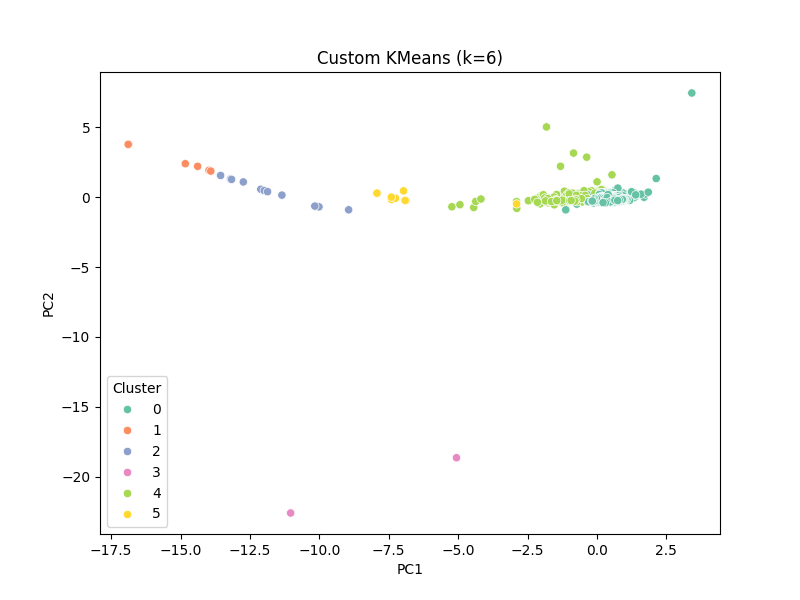
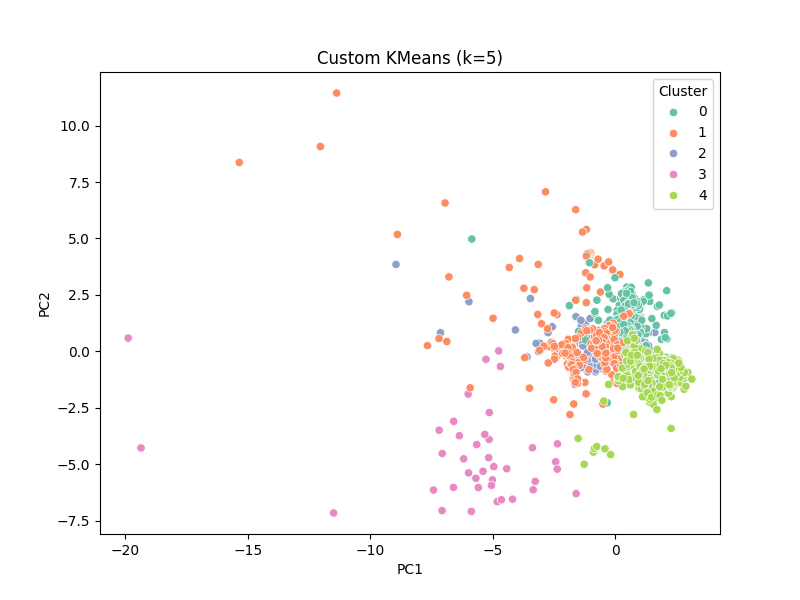
Flask sensor app

diff --git a/templates/report.html b/templates/report.html
@@ -146,21 +146,6 @@
         
     </div>
 
-    <!-- KNN Clustering Section -->
-    <div class="card mb-4">
-        <h3 class="section-title">KNN Clustering Results</h3>
-
-        <h4 class="mt-3">Cluster Summary</h4>
-        <div class="table-container">
-            {{ cluster_summary | safe }}
-        </div>
-
-        <h4 class="mt-4">Cluster Visualization</h4>
-        <div class="text-center">
-            <img src="{{ cluster_plot }}" alt="Cluster Plot" class="img-fluid">
-        </div>
-    </div>
-
     <!-- Improved KMeans Column Selection -->
     <div class="card mb-4">
         <h3 class="section-title">Select Columns for KMeans Clustering</h3>

diff --git a/app.py b/app.py
@@ -565,123 +565,6 @@ def upload_file():
             missing_time_html = missing_time_df.to_html(classes="table table-bordered", index=False)
 
 
-
-            # ========== CLUSTERING WITH AUTO k SELECTION (with sanity checks) ==========
-
-            # Drop rows with missing numeric values for clustering
-            cluster_df = df[numeric_cols].dropna()
-
-            sanity_issue = False
-            sanity_reasons = []
-
-            if len(cluster_df) < 10:
-                sanity_issue = True
-                sanity_reasons.append("Not enough data rows for clustering (minimum 10 required).")
-
-            # Remove constant columns
-            cluster_df = cluster_df.loc[:, cluster_df.nunique() > 1]
-            if cluster_df.shape[1] < 2:
-                sanity_issue = True
-                sanity_reasons.append("Too few variable columns for clustering after removing constants.")
-
-            # Standardize the features
-            if not sanity_issue:
-                scaler = StandardScaler()
-                X_scaled = scaler.fit_transform(cluster_df)
-
-                # Check for NaNs or Infs in scaled data
-                if not np.all(np.isfinite(X_scaled)):
-                    sanity_issue = True
-                    sanity_reasons.append("NaN or Inf values found in scaled data.")
-
-            if not sanity_issue:
-                # Try multiple k values
-                inertia = []
-                silhouette = []
-                K_range = range(2, min(10, len(cluster_df)))  # Safe upper bound on k
-
-                for k in K_range:
-                    kmeans = KMeans(n_clusters=k, random_state=42)
-                    labels = kmeans.fit_predict(X_scaled)
-                    inertia.append(kmeans.inertia_)
-                    silhouette.append(silhouette_score(X_scaled, labels))
-
-                # Choose k with best silhouette score
-                # Elbow method: find the "knee point" using the distance from a line between first and last points
-                from scipy.spatial.distance import euclidean
-
-                # Normalize inertia for better elbow detection
-                x = np.array(list(K_range))
-                y = np.array(inertia)
-
-                # Line from first to last point
-                line_vector = np.array([x[-1] - x[0], y[-1] - y[0]])
-                line_vector_norm = line_vector / np.linalg.norm(line_vector)
-
-                # Compute distances
-                distances = []
-                for i in range(len(x)):
-                    point = np.array([x[i] - x[0], y[i] - y[0]])
-                    proj_len = np.dot(point, line_vector_norm)
-                    proj = proj_len * line_vector_norm
-                    dist = np.linalg.norm(point - proj)
-                    distances.append(dist)
-
-                # Elbow point = max distance
-                best_k = x[np.argmax(distances)]
-
-
-                # Plot K Selection
-                plt.figure(figsize=(12, 5))
-
-                # Elbow Method
-                plt.subplot(1, 2, 1)
-                plt.plot(K_range, inertia, marker='o')
-                plt.title("Elbow Method (Inertia)")
-                plt.xlabel("Number of clusters (k)")
-                plt.ylabel("Inertia")
-
-                # Silhouette Score
-                plt.subplot(1, 2, 2)
-                plt.plot(K_range, silhouette, marker='o', color='green')
-                plt.title("Silhouette Score")
-                plt.xlabel("Number of clusters (k)")
-                plt.ylabel("Score")
-
-                plt.tight_layout()
-                plt.savefig("static/k_selection.png")
-                plt.close()
-
-                # Final clustering
-                final_kmeans = KMeans(n_clusters=best_k, random_state=42)
-                final_labels = final_kmeans.fit_predict(X_scaled)
-
-                df.loc[cluster_df.index, 'Cluster_Label'] = final_labels
-
-                # Cluster summary
-                cluster_summary = df.groupby("Cluster_Label")[numeric_cols].mean().round(2)
-                cluster_summary_html = cluster_summary.to_html(classes="table table-bordered", index_names=False)
-
-                # PCA plot
-                from sklearn.decomposition import PCA
-                pca = PCA(n_components=2)
-                pca_components = pca.fit_transform(X_scaled)
-
-                pca_df = pd.DataFrame(pca_components, columns=["PC1", "PC2"])
-                pca_df["Cluster"] = final_labels
-
-                plt.figure(figsize=(8, 6))
-                sns.scatterplot(data=pca_df, x="PC1", y="PC2", hue="Cluster", palette="Set1")
-                plt.title(f"K-Means Clustering (k = {best_k})")
-                plt.savefig("static/cluster_plot.png")
-                plt.close()
-
-            else:
-                cluster_summary_html = "<p>Clustering skipped due to sanity check failure:</p><ul>" + \
-                    "".join(f"<li>{reason}</li>" for reason in sanity_reasons) + "</ul>"
-
-
-
             # ========================== Stability Analysis ========================== # 
            
             target_col = numeric_cols[-1] if len(numeric_cols) > 1 else None
@@ -797,7 +680,6 @@ def upload_file():
             # Save these for PDF export in your upload_file() function:
             stability_result_df.to_pickle("temp/stability_result_df.pkl")
             missing_time_df.to_pickle("temp/missing_time_df.pkl")
-            cluster_summary.to_pickle("temp/cluster_summary_df.pkl")
  
             # Convert to HTML for rendering
             stability_result_html = stability_result_df.to_html(classes="table table-bordered")
@@ -818,8 +700,6 @@ def upload_file():
                 stability_result=stability_result_html,
                 stability_analysis=feature_stability_html,
                 missing_time_table=missing_time_html,
-                cluster_summary=cluster_summary_html,
-                cluster_plot="static/cluster_plot.png",
                 column_options=numeric_cols.tolist())
 
     return render_template("index.html")
@@ -833,6 +713,51 @@ def download_pdf():
         return error, 400
     print("Sending PDF file:", pdf_path)
     return send_file(pdf_path, as_attachment=True)
+
+
+def check_clustering_sanity(df, selected_cols, min_rows=10, correlation_threshold=0.95):
+    issues = []
+    X_scaled = None  # <- Initialize here
+
+    # 1. Column existence
+    missing_cols = [col for col in selected_cols if col not in df.columns]
+    if missing_cols:
+        issues.append(f"Missing columns: {missing_cols}")
+        return issues, None, None  # Also return X_scaled as None
+
+    cluster_df = df[selected_cols].dropna()
+
+    # 2. Check row count
+    if len(cluster_df) < min_rows:
+        issues.append(f"Not enough rows for clustering (minimum {min_rows} required).")
+
+    # 3. Drop non-variable columns
+    cluster_df = cluster_df.loc[:, cluster_df.nunique() > 1]
+    if cluster_df.shape[1] < 2:
+        issues.append("Too few variable columns after filtering constant values.")
+
+    # 4. Data type check
+    if not np.all([np.issubdtype(dtype, np.number) for dtype in cluster_df.dtypes]):
+        issues.append("All selected columns must be numeric.")
+
+    # 5. Correlation check
+    if cluster_df.shape[1] >= 2:
+        corr_matrix = cluster_df.corr().abs()
+        upper = corr_matrix.where(np.triu(np.ones(corr_matrix.shape), k=1).astype(bool))
+        high_corr = [col for col in upper.columns if any(upper[col] > correlation_threshold)]
+        if high_corr:
+            issues.append(f"Highly correlated features (>{correlation_threshold}): {high_corr}")
+
+    # 6. NaN or Inf after scaling
+    if not issues:
+        scaler = StandardScaler()
+        X_scaled = scaler.fit_transform(cluster_df)
+        if not np.all(np.isfinite(X_scaled)):
+            issues.append("NaN or Inf values found after scaling.")
+            X_scaled = None  # Safety: avoid returning invalid value
+
+    return issues, cluster_df, X_scaled
+
 
 
 
@@ -881,21 +806,13 @@ def custom_clustering():
         cluster_df = df[selected_cols].dropna()
 
         # ========== Sanity Checks ==========
-        sanity_issues = []
-        if len(cluster_df) < 10:
-            sanity_issues.append("Not enough rows for clustering (minimum 10 required).")
+        # Enhanced sanity check
+        sanity_issues, cluster_df, X_scaled = check_clustering_sanity(df, selected_cols)
 
-        cluster_df = cluster_df.loc[:, cluster_df.nunique() > 1]
-        if cluster_df.shape[1] < 2:
-            sanity_issues.append("Too few variable columns after filtering.")
 
-        if not sanity_issues:
-            scaler = StandardScaler()
-            X_scaled = scaler.fit_transform(cluster_df)
-            if not np.all(np.isfinite(X_scaled)):
-                sanity_issues.append("NaN or Inf values found after scaling.")
         if sanity_issues:
-            return f"<p>Clustering failed:</p><ul>{''.join(f'<li>{reason}</li>' for reason in sanity_issues)}</ul>"
+            return f"<p>Clustering failed:</p><ul>{''.join(f'<li>{issue}</li>' for issue in sanity_issues)}</ul>"
+
 
         # ========== KMeans ==========
         inertia, silhouette = [], []

diff --git a/pdf.py b/pdf.py
@@ -77,18 +77,12 @@ def generate_pdf():
         model_stability_df = pd.read_pickle(stability_result_path)
         render_table_to_pdf(pdf, model_stability_df, "Model Stability Summary")
 
-    # === 5. Clustering Summary Table ===
-    cluster_summary_path = os.path.join(TEMP_FOLDER, "cluster_summary_df.pkl")
-    if os.path.exists(cluster_summary_path):
-        cluster_df = pd.read_pickle(cluster_summary_path)
-        render_table_to_pdf(pdf, cluster_df, "Cluster Summary")
 
     # === 7. Plots ===
     image_plots = [
         ("static/timeseries_stacked.png", "Time Series Plot"),
         ("static/anomalies_stacked.png", "Anomaly Detection Plot"),
         ("static/correlation_heatmap_large.png", "Correlation Heatmap"),
-        ("static/cluster_plot.png", "Cluster PCA Plot"),
         ("static/k_selection.png", "K-Selection Plot")
     ]
 
